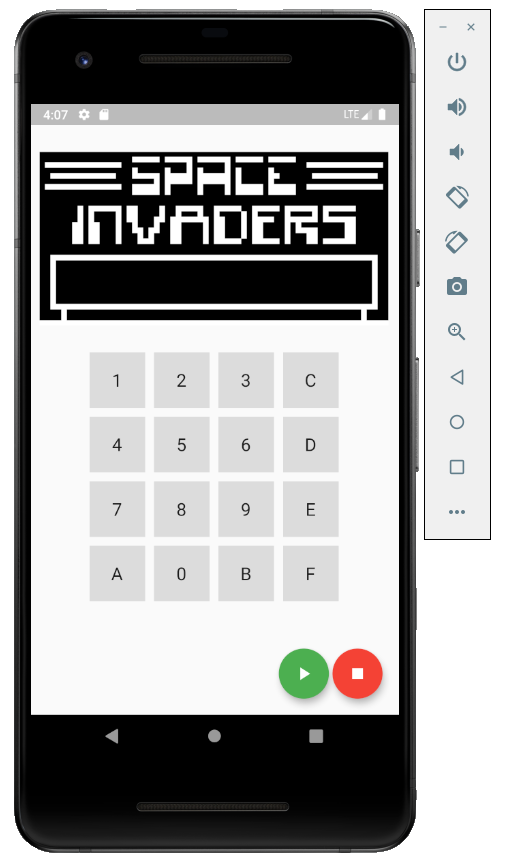
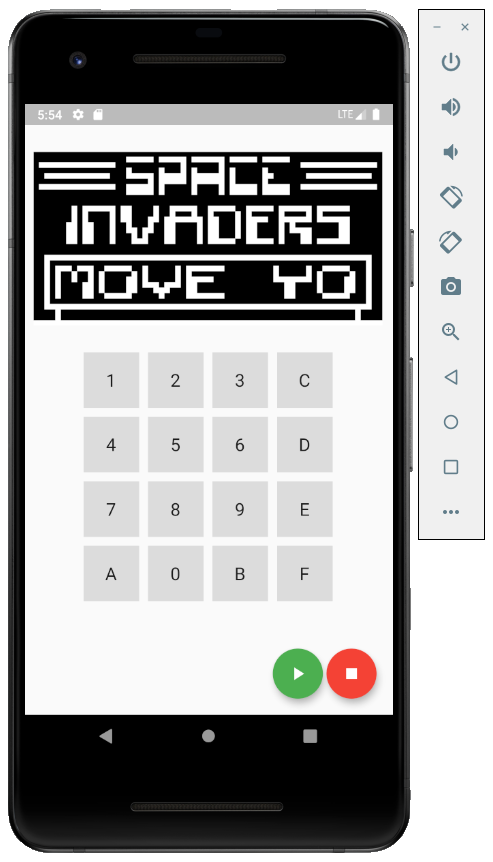
Cycle count and keyboard wired up

diff --git a/lib/machine.dart b/lib/machine.dart
@@ -66,7 +66,15 @@ class OpCode {
   }
 }
 
-enum Operations { UpdateScreen, Stop, Stopped, Running, Communication }
+enum Operations {
+  UpdateScreen,
+  Stop,
+  Stopped,
+  Running,
+  Communication,
+  KeyDown,
+  KeyUp
+}
 
 const _hexCodes = [
   0xF0, 0x90, 0x90, 0x90, 0xF0, // 0
@@ -162,10 +170,20 @@ class Machine {
     st = 0;
   }
 
+  int keyPressed = null;
+
+  int waitForKey = -1;
+
   _handleMessage(dynamic data) {
     switch (data[0]) {
       case Operations.Stop:
         stop = true;
+        break;
+      case Operations.KeyDown:
+        keyPressed = data[1];
+        break;
+      case Operations.KeyUp:
+        keyPressed = null;
         break;
     }
   }
@@ -186,36 +204,54 @@ class Machine {
     // rom loaded into machine mem debug text
     port.send([Operations.Running]);
 
-    // start processing, run 60 instructions per second
-    const duration = Duration(microseconds: 1);
-    Stopwatch watch = Stopwatch();
-    watch.start();
+    //screen timer
+    Stopwatch screenRefresh = Stopwatch();
+    screenRefresh.start();
+
+    // we aim for 700mhz so that is 0.7cycles per millisecond
+    // or 1 cycle each 1700 microseconds
+    Stopwatch cycleTime = Stopwatch();
+    cycleTime.start();
+
+    const int microsPerCycle = 1800;
+    int sleepMicroseconds = 1;
     while (!this.stop) {
       // message polling (kind of) cant find better way to communicate
       // with flutter isolates
-      while (await hasNext.timeout(duration, onTimeout: () => false)) {
+      while (await hasNext.timeout(Duration(microseconds: sleepMicroseconds),
+          onTimeout: () => false)) {
         _handleMessage(inbox.current);
         hasNext = inbox.moveNext();
       }
 
-      if (pc >= mem.length - 1) {
-        pc = 0x200;
-      }
-      // opcodes are made of 16 bits, memory is made of 8,
-      // so two mem entries = 1 opcode
-      op.value = mem[pc] << 8 | mem[pc + 1];
-      // opcodes += op.value.toRadixString(16);
-      pc += 2;
+      if (waitForKey == -1) {
+        if (pc >= mem.length - 1) {
+          pc = 0x200;
+        }
+        // opcodes are made of 16 bits, memory is made of 8,
+        // so two mem entries = 1 opcode
+        op.value = mem[pc] << 8 | mem[pc + 1];
+        // opcodes += op.value.toRadixString(16);
+        pc += 2;
 
-      runOperation(this, op);
-
-      //update screen 30fps assuming the frame was painted (we will never know)
-      if (watch.elapsedMilliseconds >= 16) {
-        sport.send([Operations.UpdateScreen, genImageUI(screen)]);
-        if (dt > 0) dt--;
-        if (st > 0) st--;
-        watch.reset();
+        runOperation(this, op);
+        //update screen 60fps chip 8 screen is 60 Hz
+        if (screenRefresh.elapsedMilliseconds >= 16) {
+          sport.send([Operations.UpdateScreen, genImageUI(screen)]);
+          if (dt > 0) dt--;
+          if (st > 0) st--;
+          screenRefresh.reset();
+        }
+      } else {
+        if (keyPressed != null) {
+          V[waitForKey] = keyPressed;
+          waitForKey = -1;
+        }
       }
+
+      sleepMicroseconds = microsPerCycle - cycleTime.elapsedMicroseconds;
+      sleepMicroseconds = sleepMicroseconds < 0 ? 0 : sleepMicroseconds;
+      cycleTime.reset();
     }
 
     //port.send(opcodes);

diff --git a/lib/machine_operations.dart b/lib/machine_operations.dart
@@ -248,11 +248,11 @@ _drw_xyn(Machine mac, OpCode op) {
 }
 
 _skp_x(Machine mac, OpCode op) {
-  _debugPrint("SKP ${op.x.toRadixString(16)}");
+  if (mac.V[op.x] == mac.keyPressed) mac.pc += 2;
 }
 
 _sknp_x(Machine mac, OpCode op) {
-  _debugPrint("SKNP ${op.x.toRadixString(16)}");
+  if (mac.V[op.x] != mac.keyPressed) mac.pc += 2;
 }
 
 /// LD -> v[x] = DT
@@ -261,7 +261,7 @@ _ld_xdt(Machine mac, OpCode op) {
 }
 
 _ld_xk(Machine mac, OpCode op) {
-  _debugPrint("LD ${op.x.toRadixString(16)}, K");
+  mac.waitForKey = op.x;
 }
 
 /// LD -> DT = v[x]

diff --git a/lib/main.dart b/lib/main.dart
@@ -59,9 +59,9 @@ class _MyHomePageState extends State<MyHomePage> {
   void _onKeyPressed() {
     // do something with the pressed key
     if (keyData.key != null)
-      print('key was pressed');
+      _machineSender.send([Operations.KeyDown, keyData.key]);
     else
-      print('key was released');
+      _machineSender.send([Operations.KeyUp]);
   }
 
   void _startSim() async {
